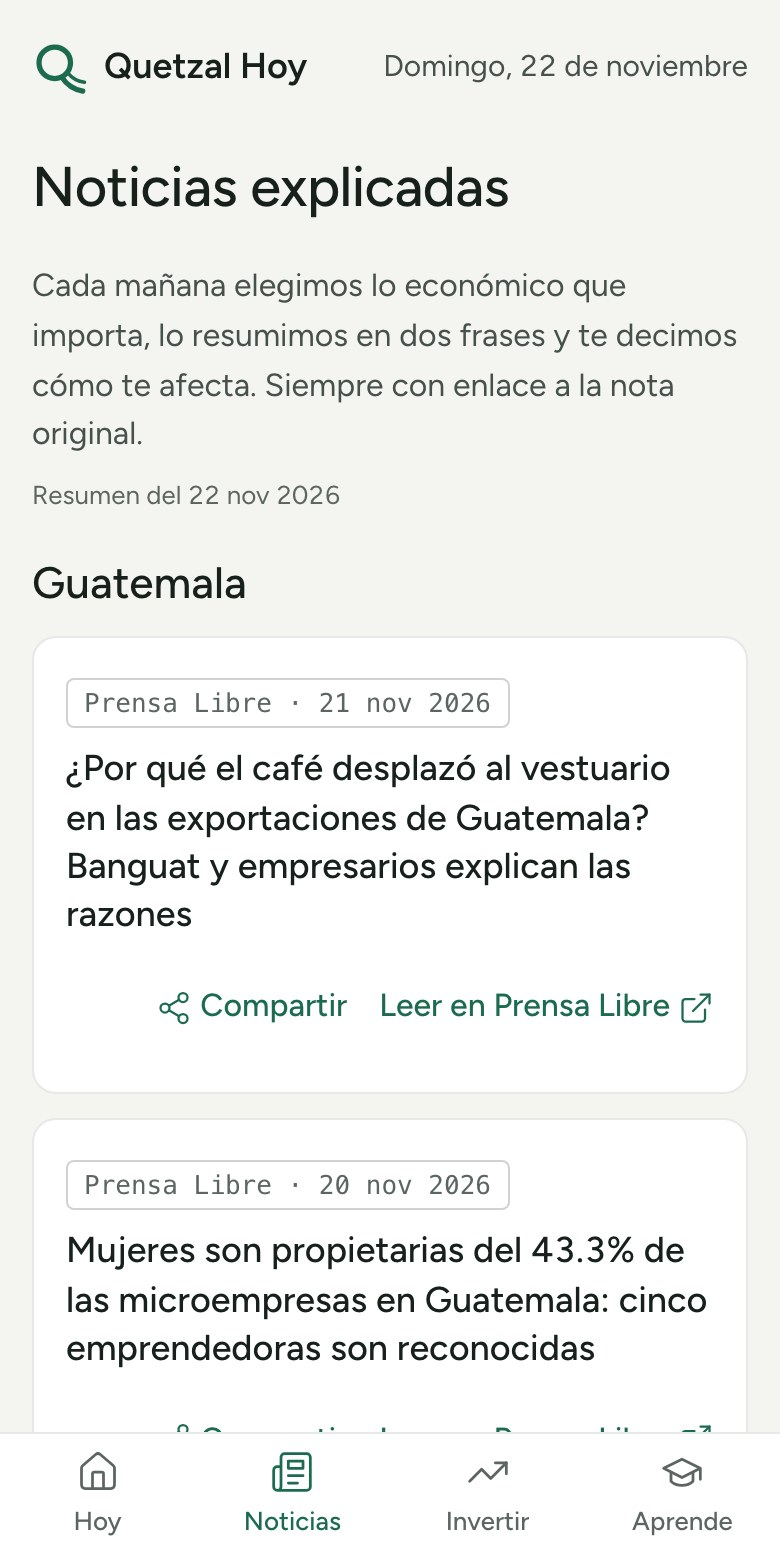
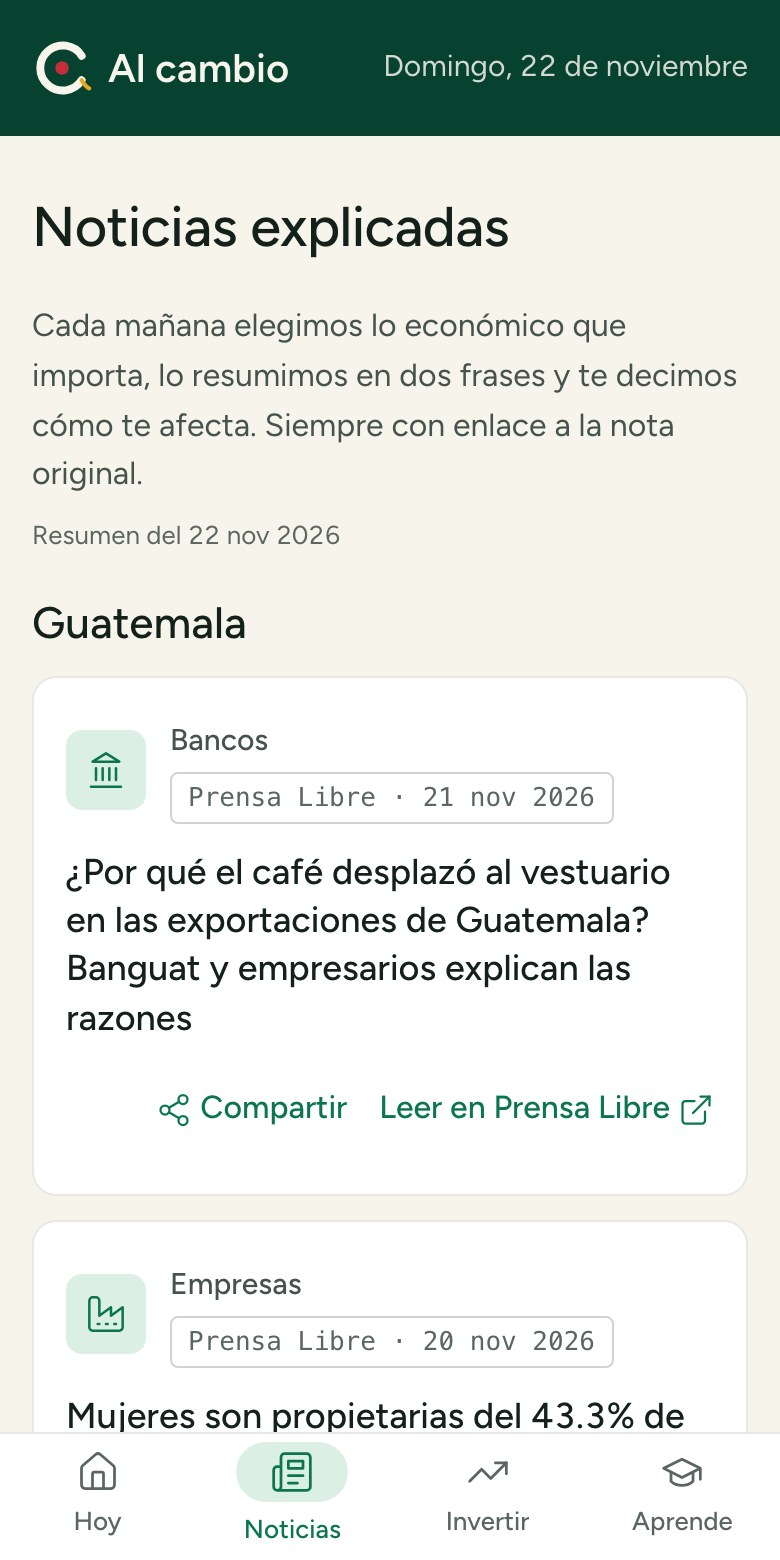
Fase 11: capturas antes y después, ficha de Play y progreso

Changed region(s): [[0.0, 0.0, 1.0, 0.6769], [0.0615, 0.7077, 0.9231, 0.9846], [0.8923, 0.6154, 0.9231, 0.6462]]

diff --git a/PROGRESO.md b/PROGRESO.md
@@ -1,6 +1,6 @@
 # Progreso — Quetzal Hoy
 
-## Siguiente fase: 11 — Nombre nuevo y colores del quetzal (en curso). Después: mantenimiento (ver "Rutina mensual").
+## Siguiente fase: ninguna pendiente. Lo que sigue es mantenimiento (ver "Rutina mensual").
 
 | Fase | Nombre | Estado | Fecha |
 |---|---|---|---|
@@ -15,7 +15,7 @@
 | 9 | Listo para ganar dinero | Hecha | 3 nov 2026 |
 | 10 | App en Google Play | Hecha (lista para que Raúl la suba) | 3 nov 2026 |
 | U | Rediseño con Unslop | Hecha | 22 nov 2026 |
-| 11 | Nombre nuevo y colores del quetzal | En curso | 22 nov 2026 |
+| 11 | Nombre nuevo y colores del quetzal | Hecha | 22 nov 2026 |
 
 ## Publicación
 - **La app está publicada:** https://hoy.compoundclub.fyi (también https://quetzal-hoy.academi-q1.workers.dev).
@@ -289,3 +289,23 @@
   página de inflación) usan ahora una copia fija, `tests/fixtures/indicadores-2026-11-03.json`, para que
   actualizar los datos cada mes no las rompa. La prueba que valida campos sigue leyendo los datos reales.
   Caché del service worker v18.
+- 22 nov 2026 (fase 11): Raúl eligió el nombre **Al cambio** (lo escribió así, con "cambio" en minúscula;
+  se respeta tal cual) y la paleta **Quetzal vivo**. El nombre sale de `site.config.json` y se cambió en
+  todas las páginas, manifest, imagen del día, texto de WhatsApp, media kit, ficha y manifest de Google
+  Play. No se cambiaron los nombres internos (Worker `quetzal-hoy`, KV, `package.json`, alias de la
+  llave de Android, paquete `fyi.compoundclub.hoy`) ni las claves guardadas en el celular
+  (`quetzal-hoy:progreso`, `:premium`, `:instalar`), para que nadie pierda su avance de cursos.
+- 22 nov 2026 (fase 11): logo nuevo: una C de "cambio" con un punto rojo (el pecho del quetzal) y la
+  punta dorada de la pluma. Se probaron otras ideas (flechas de cambio, moneda con plumas); la C fue la
+  más clara en tamaño chico. Ícono de la app sobre verde hondo.
+- 22 nov 2026 (fase 11): la Fase U pedía "un acento usado poco" y Raúl sintió la app plana. Se mantiene
+  lo que la hacía confiable (sello de fuente y fecha, Figtree, sin emojis, sin degradados, el dólar sin
+  rojo ni verde) y se agregan bloques de color con sentido: cabecera verde hondo, tarjeta del dólar en
+  jade con la cifra crema y el punto de hoy dorado, dato del día en dorado, mosaicos de color con íconos
+  de línea en indicadores y noticias (el tema sale de palabras del titular), portadas de color en los
+  cursos, punto de color para el riesgo y pastilla detrás de la pestaña activa. DISENO.md actualizado.
+- 22 nov 2026 (fase 11): contraste AA comprobado para cada combinación nueva en claro y oscuro. Para que
+  el texto secundario crema pase AA, la tarjeta del dólar usa `#0a6b4b` (un poco más oscuro que el jade
+  de los botones). Lighthouse móvil en vivo: rendimiento, accesibilidad, buenas prácticas y SEO en 100.
+- 22 nov 2026 (fase 11): capturas antes y después en `docs/fase-11/`; capturas de Google Play y gráfico
+  destacado rehechos con el nombre y los colores nuevos. Caché del service worker v19.

diff --git a/PLAN.md b/PLAN.md
@@ -270,9 +270,9 @@ Tareas:
   degradados de moda, sin emojis, sin brillos).
 
 Criterios de terminado:
-- [ ] `npm test` pasa.
-- [ ] El nombre "Al cambio" aparece en toda la app y en lo que se comparte; ninguna pantalla dice "Quetzal Hoy".
-- [ ] Contraste AA en claro y oscuro, rendimiento móvil ≥ 90 en vivo, sin errores en consola.
-- [ ] Capturas antes y después en `docs/fase-11/`.
-- [ ] Publicado y comprobado en la URL en vivo.
+- [x] `npm test` pasa.
+- [x] El nombre "Al cambio" aparece en toda la app y en lo que se comparte; ninguna pantalla dice "Quetzal Hoy".
+- [x] Contraste AA en claro y oscuro, rendimiento móvil ≥ 90 en vivo, sin errores en consola.
+- [x] Capturas antes y después en `docs/fase-11/`.
+- [x] Publicado y comprobado en la URL en vivo.
 
